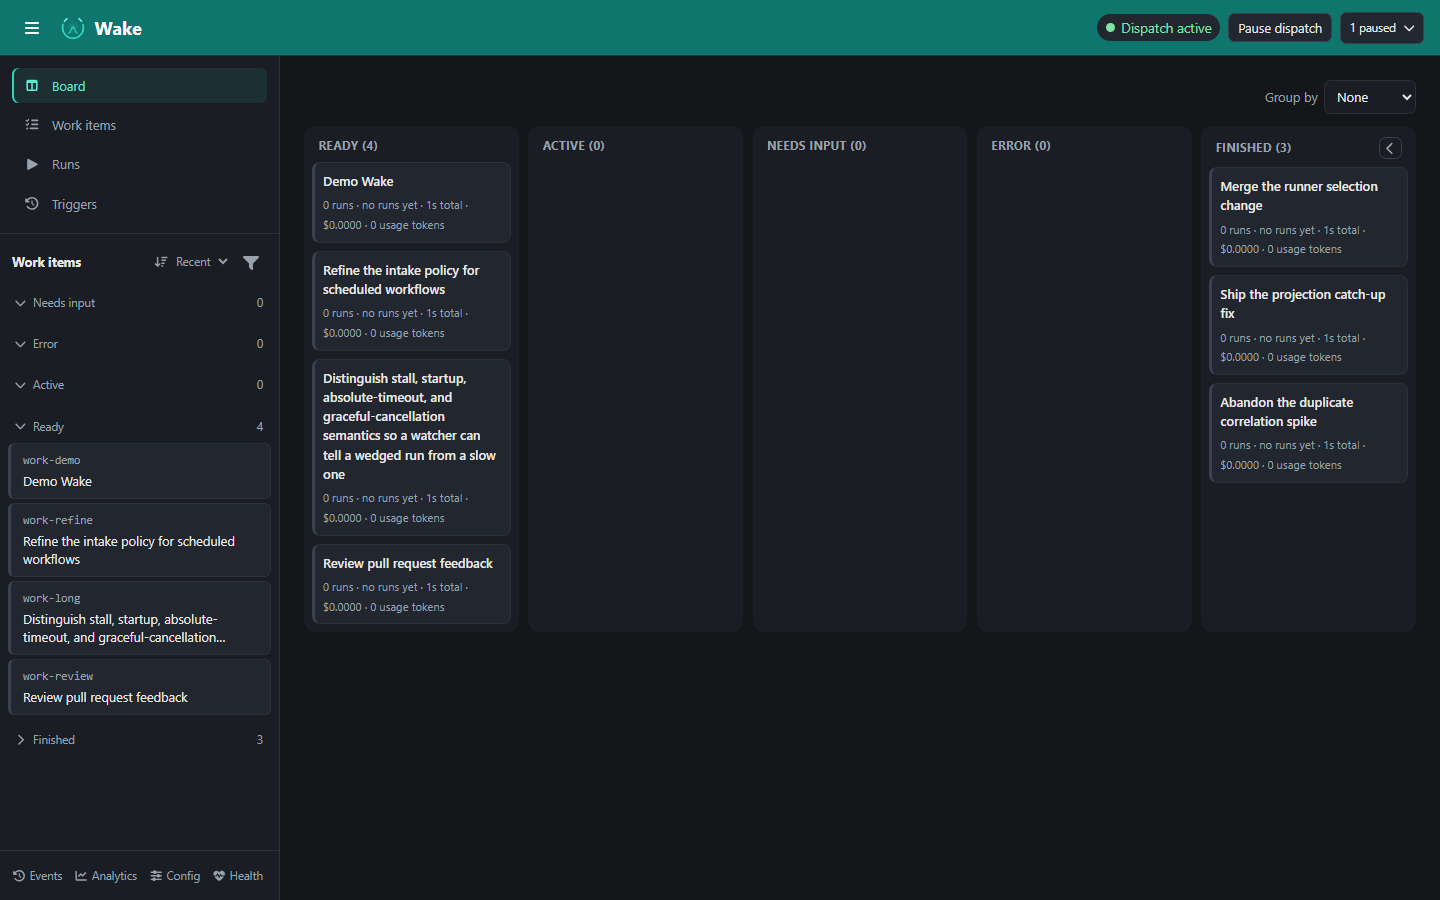
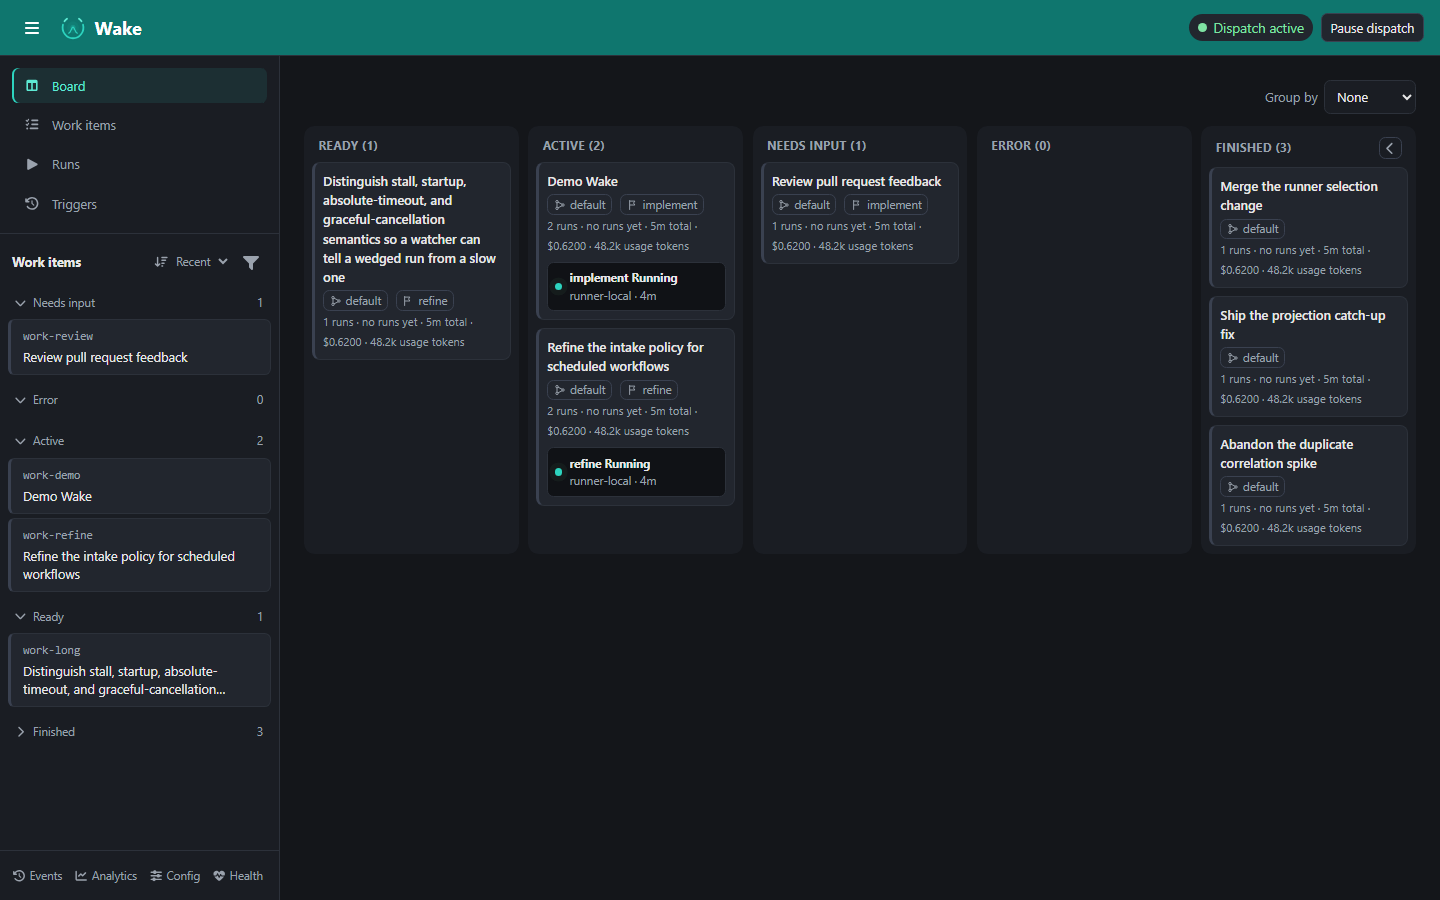
Show active runs on the board and a workflow diagram in web UI screenshots

diff --git a/docs/web-ui.md b/docs/web-ui.md
@@ -17,7 +17,7 @@ The Board is the default view. It groups work items by their current condition,
 with columns for Ready, Active, Needs input, Error, and Finished. Cards
 summarize work and provide a route into its details.
 
-![Board with work items grouped by status](web-ui-screenshots/01-board.png)
+![Board with ready, active, needs-input, and finished work, including runs in progress](web-ui-screenshots/01-board.png)
 
 ## Work items
 
@@ -38,7 +38,7 @@ The detail page brings related information together in tabs:
 
 Available actions depend on the work item's state and configured workflow.
 
-![Work item overview showing its tabs, activity timeline, and linked resources](web-ui-screenshots/02-work-item-detail.png)
+![Work item overview showing its tabs, the workflow diagram with the current stage, activity timeline, and linked resources](web-ui-screenshots/02-work-item-detail.png)
 
 ## Runs
 
